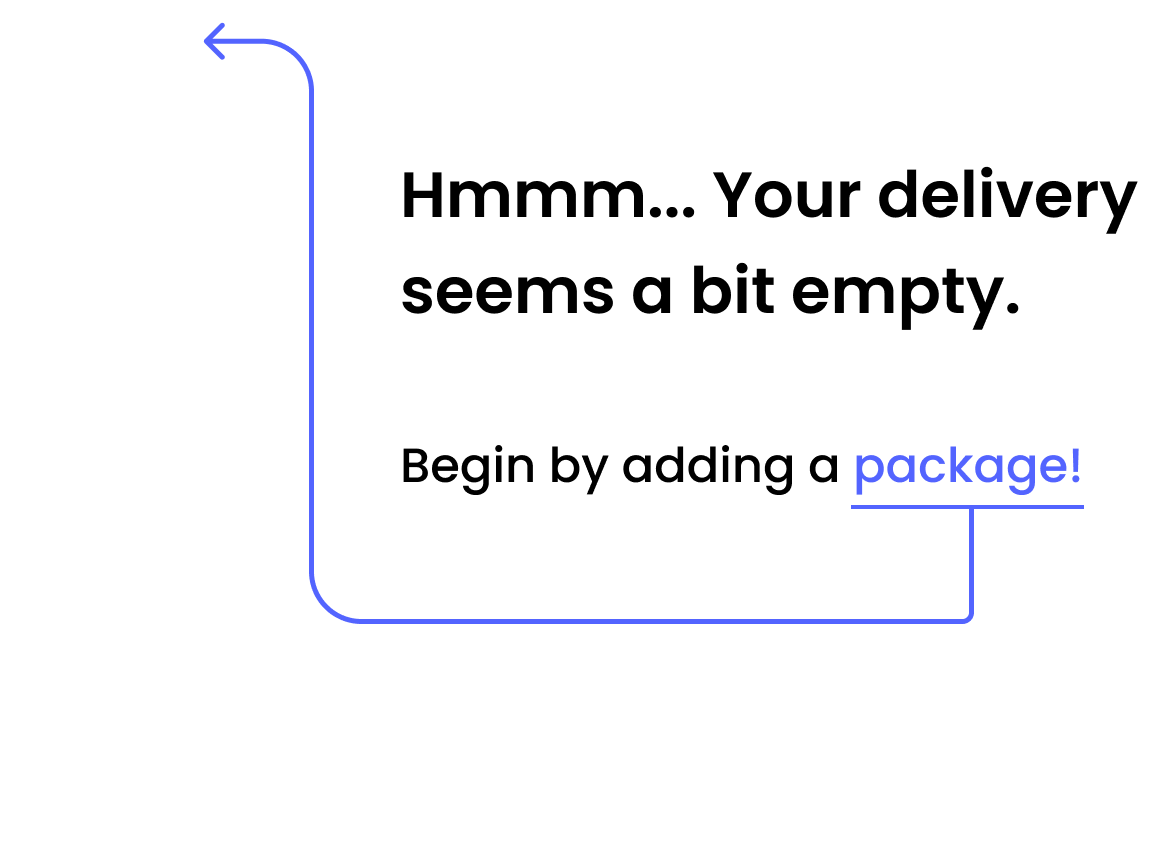
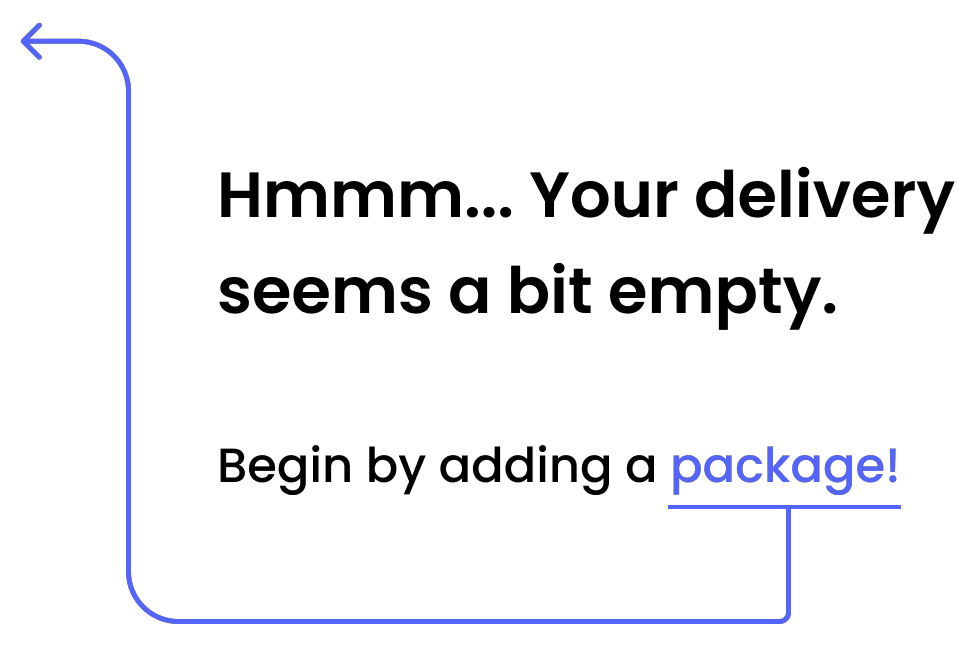
new sidebar styles, as well as a continue button in the sidebar

diff --git a/gruppeeksamen MIX114/addOrder.html b/gruppeeksamen MIX114/addOrder.html
@@ -76,8 +76,9 @@
       <div class="sidebar">
         <div class="sidebarList">
           <ul>
-            <li>
-              <svg
+            <a href="./Delivery - page 1.html">
+              <li class="sidebar-list-items"">
+                <svg
                 xmlns="http://www.w3.org/2000/svg"
                 width="16"
                 height="16"
@@ -88,12 +89,13 @@
                 <path
                   d="M6 1v3H1V1h5zM1 0a1 1 0 0 0-1 1v3a1 1 0 0 0 1 1h5a1 1 0 0 0 1-1V1a1 1 0 0 0-1-1H1zm14 12v3h-5v-3h5zm-5-1a1 1 0 0 0-1 1v3a1 1 0 0 0 1 1h5a1 1 0 0 0 1-1v-3a1 1 0 0 0-1-1h-5zM6 8v7H1V8h5zM1 7a1 1 0 0 0-1 1v7a1 1 0 0 0 1 1h5a1 1 0 0 0 1-1V8a1 1 0 0 0-1-1H1zm14-6v7h-5V1h5zm-5-1a1 1 0 0 0-1 1v7a1 1 0 0 0 1 1h5a1 1 0 0 0 1-1V1a1 1 0 0 0-1-1h-5z"
                 />
-              </svg>
-              Overview
-            </li>
+              </svg>Overview
+              </li>
+            </a>
             <li><hr /></li>
-            <li>
-              <svg
+            <a href="./addOrder.html">
+              <li class="sidebar-list-items" id="general-chosen-page-background">
+                <svg
                 xmlns="http://www.w3.org/2000/svg"
                 width="16"
                 height="16"
@@ -104,11 +106,12 @@
                 <path
                   d="M8.186 1.113a.5.5 0 0 0-.372 0L1.846 3.5l2.404.961L10.404 2l-2.218-.887zm3.564 1.426L5.596 5 8 5.961 14.154 3.5l-2.404-.961zm3.25 1.7-6.5 2.6v7.922l6.5-2.6V4.24zM7.5 14.762V6.838L1 4.239v7.923l6.5 2.6zM7.443.184a1.5 1.5 0 0 1 1.114 0l7.129 2.852A.5.5 0 0 1 16 3.5v8.662a1 1 0 0 1-.629.928l-7.185 2.874a.5.5 0 0 1-.372 0L.63 13.09a1 1 0 0 1-.63-.928V3.5a.5.5 0 0 1 .314-.464L7.443.184z"
                 />
-              </svg>
-              Send order
-            </li>
-            <li>
-              <svg
+              </svg>Send order
+              </li></a
+            >
+            <a href="https://www.facebook.com/tuva.vold.3">
+              <li class="sidebar-list-items">
+                <svg
                 xmlns="http://www.w3.org/2000/svg"
                 width="16"
                 height="16"
@@ -119,11 +122,12 @@
                 <path
                   d="M8 1a5 5 0 0 0-5 5v1h1a1 1 0 0 1 1 1v3a1 1 0 0 1-1 1H3a1 1 0 0 1-1-1V6a6 6 0 1 1 12 0v6a2.5 2.5 0 0 1-2.5 2.5H9.366a1 1 0 0 1-.866.5h-1a1 1 0 1 1 0-2h1a1 1 0 0 1 .866.5H11.5A1.5 1.5 0 0 0 13 12h-1a1 1 0 0 1-1-1V8a1 1 0 0 1 1-1h1V6a5 5 0 0 0-5-5z"
                 />
-              </svg>
-              Support
-            </li>
-            <li>
-              <svg
+              </svg>Support
+              </li></a
+            >
+            <a>
+              <li class="sidebar-list-items">
+                <svg
                 xmlns="http://www.w3.org/2000/svg"
                 width="16"
                 height="16"
@@ -140,9 +144,9 @@
                 <path
                   d="M7.5 3a.5.5 0 0 1 .5.5v5.21l3.248 1.856a.5.5 0 0 1-.496.868l-3.5-2A.5.5 0 0 1 7 9V3.5a.5.5 0 0 1 .5-.5z"
                 />
-              </svg>
-              History
-            </li>
+              </svg>History
+              </li></a
+            >
           </ul>
         </div>
       </div>
@@ -181,6 +185,13 @@
             <div id="sideBarPackageList" class="list-group"></div>
             <button class="addPackageButton" onclick="addPackage()">
               + Add package
+            </button>
+            <hr>
+            <button
+              class="continueButton"
+              onclick="collectData()"
+            >
+              Continue
             </button>
           </div>
           <!-- ------------------------------------Add order img --------------------------------------->

diff --git a/gruppeeksamen MIX114/style.css b/gruppeeksamen MIX114/style.css
@@ -90,6 +90,43 @@ header{
 
 }
 
+.sidebarList > * {
+    font-size: 16px;
+    font-weight: bold;
+    line-height: 300%;
+    padding: 30px 5px 10px 10px;
+    list-style: none;
+    font-size: 0.8em;
+}
+
+.sidebar-list-items {
+    display: flex;
+    align-items: center;
+    gap: 4%;
+}
+
+.sidebarList a {
+    text-decoration: none;
+    color: black;
+}
+
+.sidebarList a:hover {
+    text-decoration: none;
+    color: black;
+}
+
+.sidebarList li:hover {
+    background-color: rgba(0, 132, 80, 0.3);
+    border-radius: 10px;
+    padding-left: 5px;
+}
+
+#general-chosen-page-background {
+     background-color: rgba(0, 132, 80, 0.3);
+     border-radius: 10px;
+     padding-left: 5px;
+}
+
 .mainContainer{
     width:100%;
 }
@@ -163,11 +200,16 @@ footer{
     grid-column: 1;
     grid-row:2;
     border-right: 1px solid rgba(0, 0, 0, 0.25);
+    padding-left:5%;
+    padding-right:5%;
+    padding-top:5%;
 }
 
 .addOrderPackageView{
     grid-column: 2;
     grid-row: 2;
+    margin-left:20px;
+    margin-top:20px;
 }
 
 .addOrderSidebar ul{
@@ -176,10 +218,8 @@ footer{
 }
 
 .addOrderPackageView img {
-    margin-left: -5%;
-    margin-bottom: -20%;
-    height:105%;
-    width:auto;
+    margin-bottom: 10%;
+    width:80%;
 }
 
 .addPackageButton {
@@ -189,6 +229,7 @@ footer{
     padding:8%;
     border:none;
     border-radius: 10px;
+    margin-bottom:5px;
 }
 
 .viewPackageButton{
@@ -202,8 +243,14 @@ footer{
     font-size:0.9em;
 }
 
-.mainContainerPackageList{
-    margin-left: 50px;
+.continueButton{
+    background-color: #46dd18;
+    color:white;
+    width:100%;
+    padding:8%;
+    border:none;
+    border-radius: 10px;
+    margin-top:5px;
 }
 
 /* Progress bar */

diff --git a/gruppeeksamen MIX114/addOrderScript.js b/gruppeeksamen MIX114/addOrderScript.js
@@ -1,5 +1,7 @@
-let orders = {};
+
+
 let packageNumber = 0;
+
 
 function addPackage(){
     packageNumber++;
@@ -98,3 +100,21 @@ function addPackage(){
     }
 
 };
+
+function collectData(){
+    let order = {};
+    for(let i = 0; i<packageNumber; i++){
+        let formName = "packageForm"+(i+1);
+
+        //let currentForm = document.querySelector(formName);
+        let formData = new FormData(formName);
+        let currentPackage = {};
+        
+        formData.forEach((value, key) =>{
+            currentPackage[key] = value;
+        });
+
+        order[package][i] = currentPackage;
+    }
+    console.log(order);
+}
